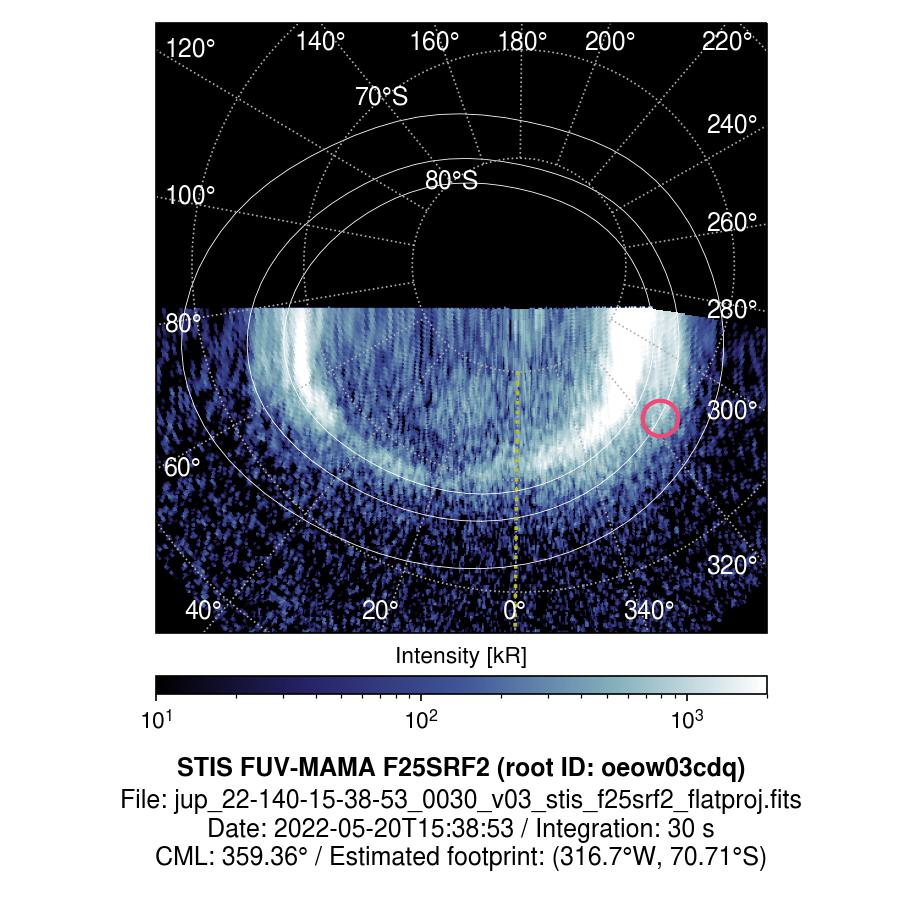
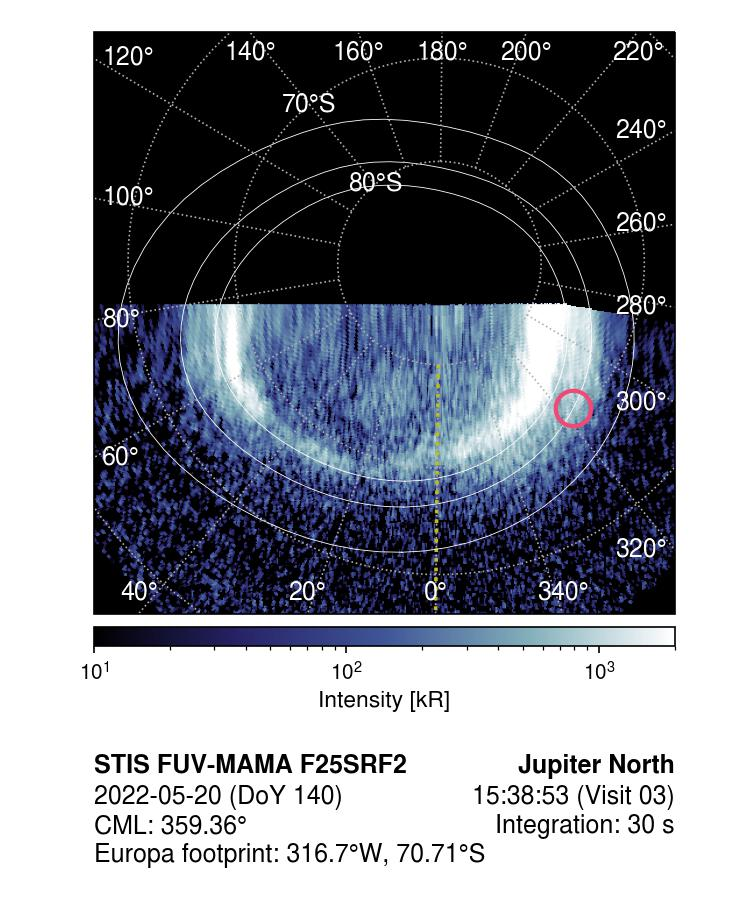
Position indicator = the "plus" symbol.

diff --git a/hstprojimage_plots.py b/hstprojimage_plots.py
@@ -1,0 +1,111 @@
+""" hstprojimage_plots.py
+
+Created on Apr 3, 2023
+@author: Shin Satoh
+
+Description:
+
+
+Version
+1.0.0 (Apr 3, 2023)
+
+"""
+
+import matplotlib.pyplot as plt
+import hstprojimage as hst
+from mpl_toolkits.axes_grid1 import make_axes_locatable
+import os
+
+fontname = 'Nimbus Sans'
+plt.rcParams.update({'font.sans-serif': fontname,
+                    'font.family': 'sans-serif',
+                     'mathtext.fontset': 'custom',
+                     'mathtext.rm': fontname,
+                     'mathtext.it': fontname+':italic',
+                     # 'mathtext.bf': 'Nimbus Sans:italic:bold',
+                     'mathtext.bf': fontname+':bold'
+                     })
+
+year = '2022'
+yearlydata_dir = 'data/red/'+year
+
+doy_visit_list = sorted(os.listdir(yearlydata_dir))
+for doyvisit in doy_visit_list[12:]:
+    savedir = 'img/red/'+year+'/'+doyvisit
+    try:
+        os.makedirs(savedir)
+    except FileExistsError:
+        savedir += '_r'
+        os.makedirs(savedir)
+
+    fits30s = sorted(os.listdir(yearlydata_dir+'/'+doyvisit))
+
+    for fitsname in fits30s:
+        plt.figure(1, figsize=(5, 6), dpi=200)
+        plt.clf()
+        fig, axs = plt.subplots(2, 1, num=1,
+                                gridspec_kw={'height_ratios': [20, 1.6]})
+
+        plt.subplots_adjust(top=1, bottom=0.07, hspace=0.4)
+
+        # Colorbar axes
+        divider = make_axes_locatable(axs[0])
+        cax = divider.append_axes('bottom', size='3%', pad=0)
+
+        # HST data
+        h = hst.HSTProjImage(yearlydata_dir+'/'+doyvisit+'/'+fitsname)
+        h.readHSTFile()
+        ax = axs[0]
+        h.tvPolar(ax, vmin=10, vmax=2000,
+                  draw_labels=True, refmainoval=False, reflon=h.alm.cml)
+
+        # Colorbar axes plot
+        axpos = ax.get_position()
+        pp = fig.colorbar(h.tvim, cax=cax, orientation='horizontal')
+        pp.set_label('Intensity [kR]', fontsize=11)
+
+        # Observation information
+        ax = axs[1]
+        fontsize = 12
+        title = 'STIS FUV-MAMA F25SRF2'
+        rootid = 'Root ID: '+h.obsid
+        filename = fitsname
+        obsdate = 'HST date: '+h.datetime
+        integ = 'Integration: '+h.exptime+' s'
+        OBSDAY, OBSTIME = h.datetime.split('T')
+        doy = OBSDAY + ' (DoY '+h.DOY + ')'
+        visit = OBSTIME + ' (Visit '+h.VISIT+')'
+
+        if h.s3lat_lin >= 0:
+            NS = 'N'
+            NORTHSOUTH = 'North'
+        else:
+            NS = 'S'
+            NORTHSOUTH = 'South'
+        eurftp = 'Europa footprint: '+str(round(h.s3wlon_lin, 2)) + \
+            '°W, ' + str(round(abs(h.s3lat_lin), 2)) + '°'+NS
+
+        cml = 'CML: '+h.CML+'°'
+        info_txtL = doy + '\n' + cml + '\n' + eurftp
+        info_txtR = visit + '\n' + integ
+        ax.set_title(title, weight='bold', fontsize=fontsize, loc='left')
+        ax.set_title('Jupiter '+NORTHSOUTH, weight='bold',
+                     fontsize=fontsize, loc='right')
+
+        ax.text(0, 1, info_txtL,
+                horizontalalignment='left',
+                verticalalignment='top',
+                transform=ax.transAxes,
+                fontsize=fontsize)
+        ax.text(1, 1, info_txtR,
+                horizontalalignment='right',
+                verticalalignment='top',
+                transform=ax.transAxes,
+                fontsize=fontsize)
+        ax.axis('off')
+
+        savename, _ = fitsname.split('_stis_')
+        print(savename)
+        plt.savefig(savedir+'/'+savename+'.jpg')
+        # plt.pause(10)
+        plt.close()

diff --git a/hstprojimage.py b/hstprojimage.py
@@ -17,14 +17,12 @@ import scipy.constants as c
 from datetime import datetime as dt
 from scipy.io.idl import AttrDict
 import astropy.io.fits as pf
-from astropy import units as u
 import cartopy.crs as ccrs
 from cartopy.img_transform import warp_array
 from cartopy.mpl.ticker import LongitudeFormatter
 import warnings
 import copy
 import sys
-import spiceypy as spice
 
 import eu_ftpS3
 from TScmap import TScmap
@@ -449,9 +447,11 @@ class HSTProjImage(object):
             molon = npzfile['hilon']
             ax.plot(molon, molat, 'r', transform=self.geodetic)
 
+        """
         if zero is True:
             ax.plot([0, 0], [-80, 80], 'y:',
                     linewidth=1.75, transform=self.geodetic)
+        """
 
         # Load and plot the satellite contours
         if satovals == ['all']:
@@ -466,19 +466,26 @@ class HSTProjImage(object):
                                                                     satoval)
 
             if 'io' in satovals:
-                ax.plot(satoval.iowlon, satoval.iolat, 'w',
-                        transform=self.geodetic, lw=0.4)
+                ax.plot(satoval.iowlon, satoval.iolat, 'y',
+                        transform=self.geodetic, lw=0.3)
             if 'eu' in satovals:
-                ax.plot(satoval.euwlon, satoval.eulat, 'w',
-                        transform=self.geodetic, lw=0.4, zorder=0.8)
+                ax.plot(satoval.euwlon, satoval.eulat, 'y',
+                        transform=self.geodetic, lw=0.3, zorder=0.8)
+                """
                 ax.plot(self.s3wlon_lin, self.s3lat_lin,
-                        markersize=17, marker='o',
+                        markersize=9, marker='o',
                         markerfacecolor='none', markeredgecolor='#f24875',
-                        markeredgewidth=2,
+                        markeredgewidth=0.8,
+                        transform=self.geodetic, zorder=5)
+                """
+                ax.plot(self.s3wlon_lin, self.s3lat_lin,
+                        markersize=9, marker='+',
+                        markerfacecolor='#f24875', markeredgecolor='#f24875',
+                        markeredgewidth=0.9,
                         transform=self.geodetic, zorder=5)
             if 'ga' in satovals:
-                ax.plot(satoval.gawlon, satoval.galat, 'w',
-                        transform=self.geodetic, lw=0.4)
+                ax.plot(satoval.gawlon, satoval.galat, 'y',
+                        transform=self.geodetic, lw=0.3)
 
         ax.set_extent(out_extent, crs=outproj)
         if hem == 'north':
@@ -486,8 +493,8 @@ class HSTProjImage(object):
 
         # Finally draw labels if required
         if draw_labels is True:
-            gl.xlabel_style = {'c': 'w', 'size': 12}
-            gl.ylabel_style = {'c': 'w', 'size': 12}
+            gl.xlabel_style = {'c': 'w', 'size': 10}
+            gl.ylabel_style = {'c': 'w', 'size': 10}
             gl.rotate_labels = False
             gl.xpadding = -4
             gl.geo_labels = False
